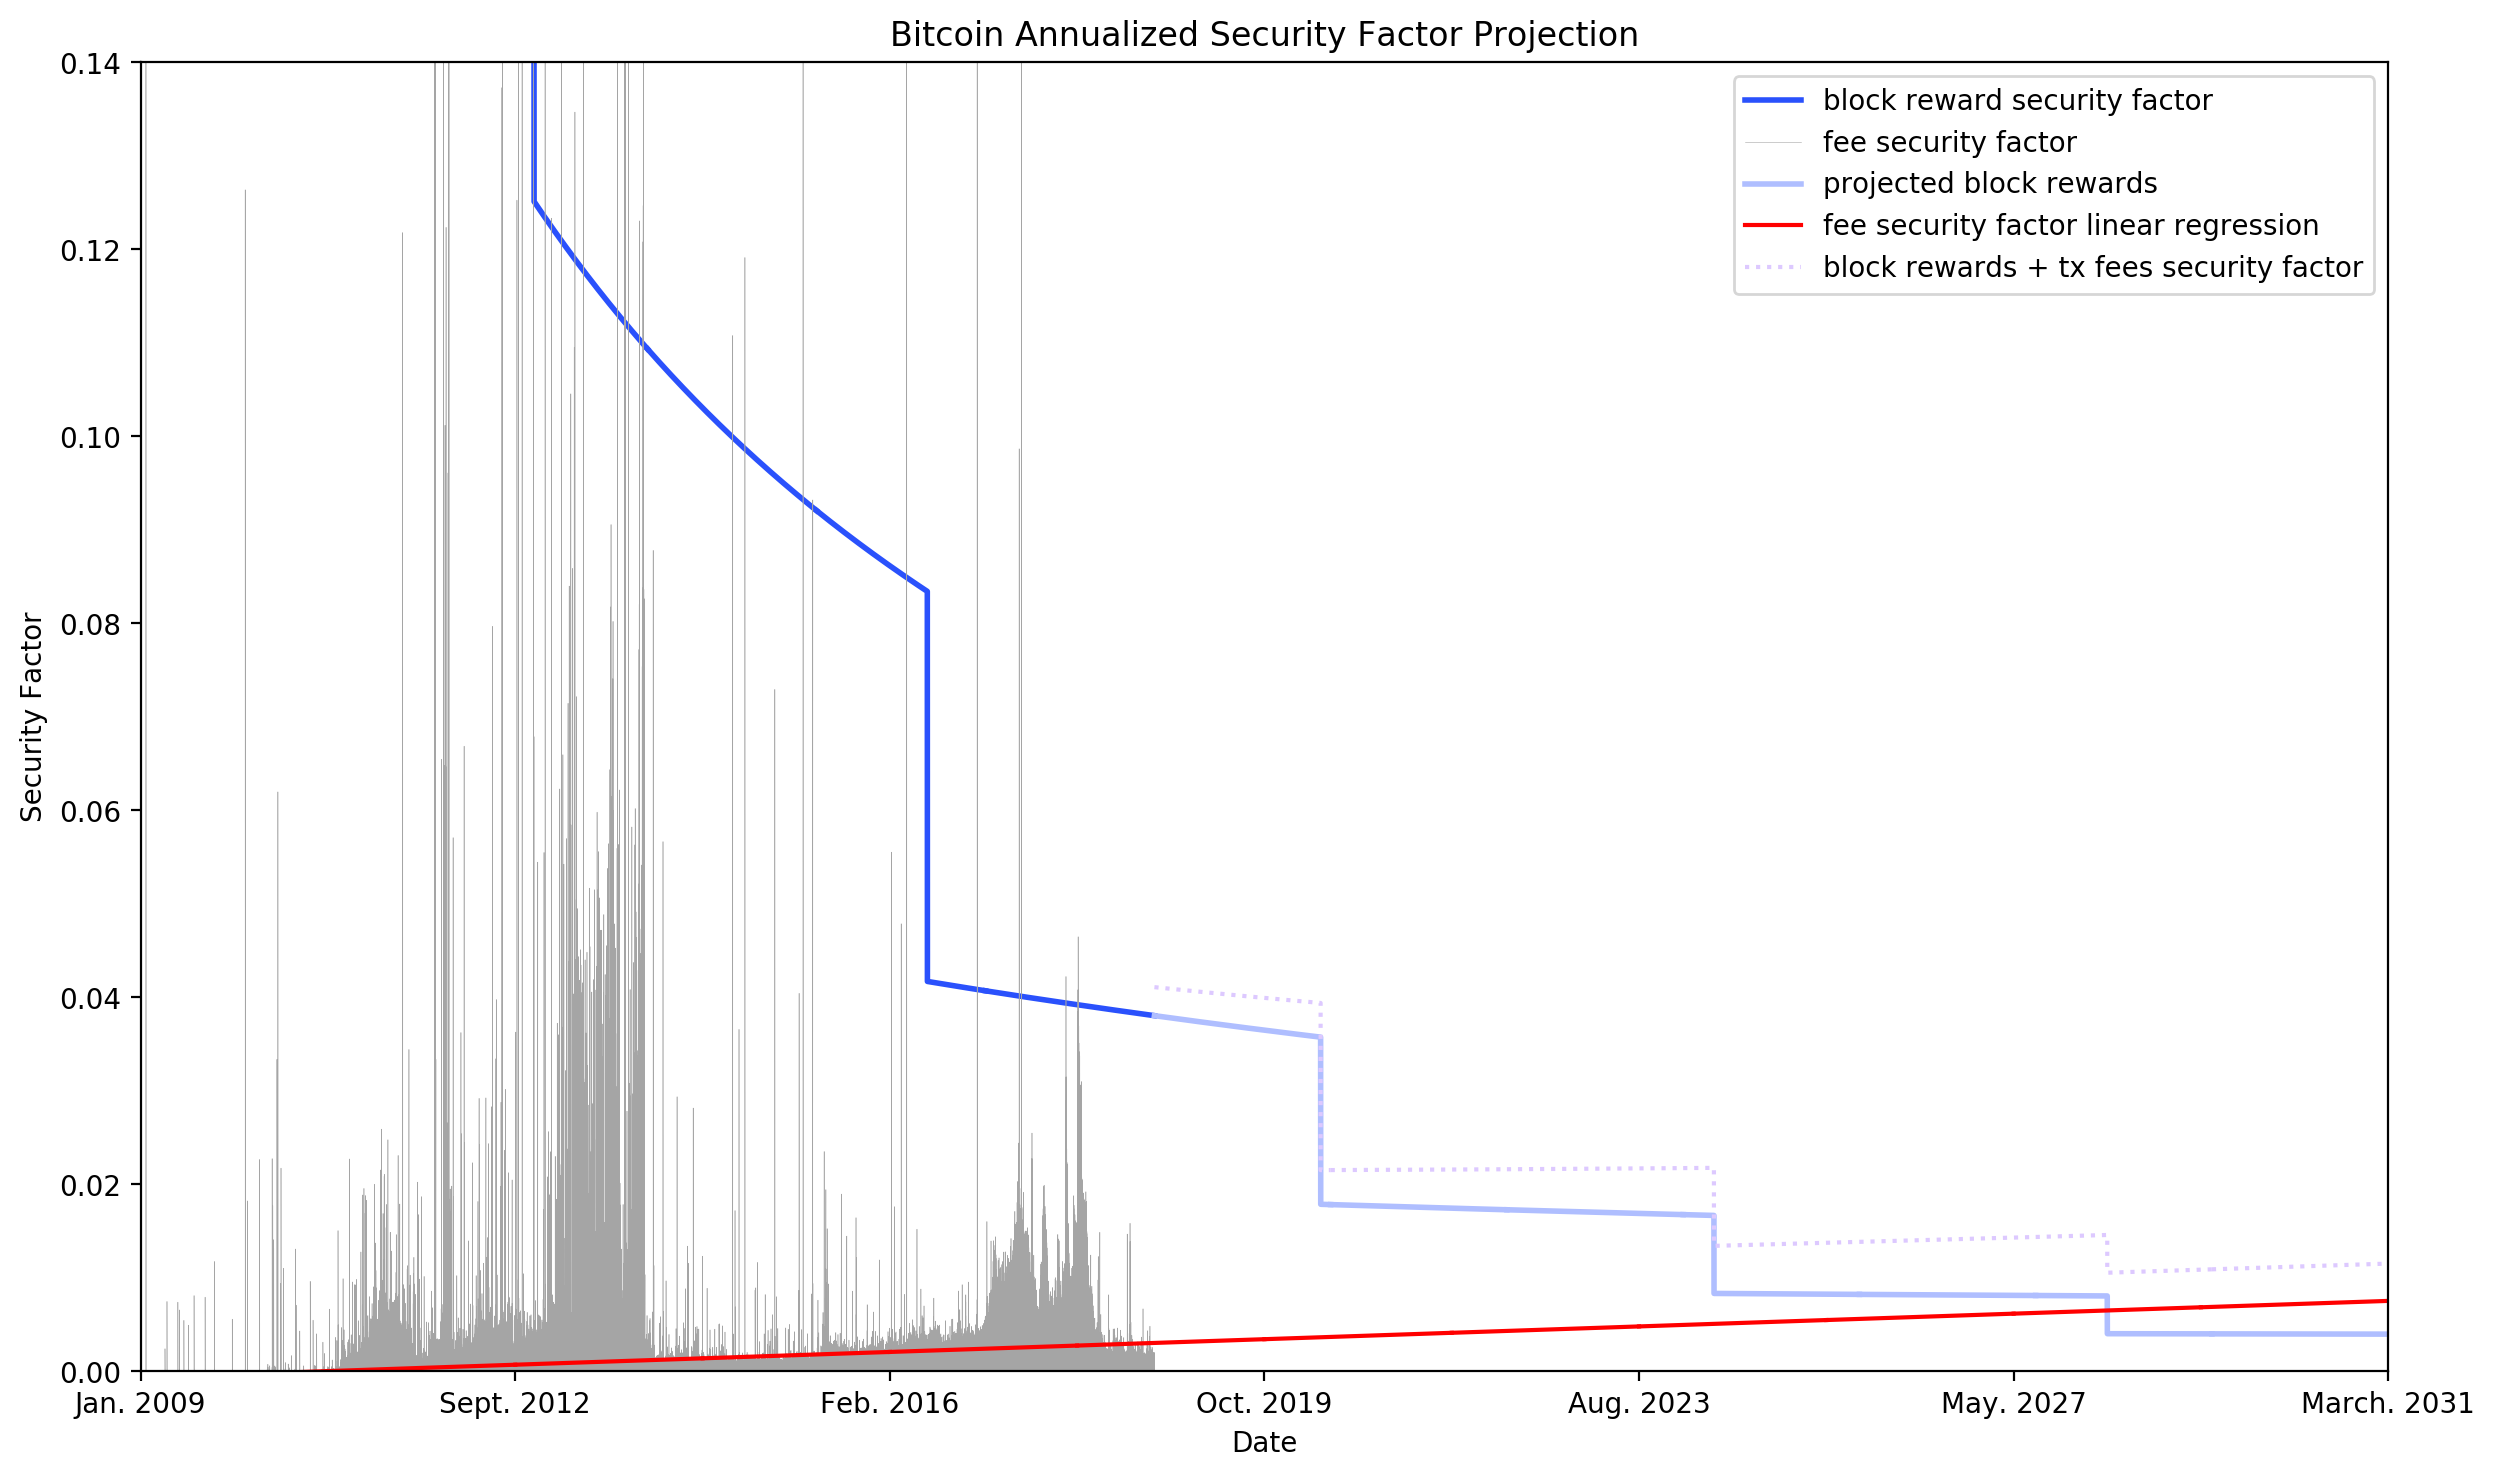
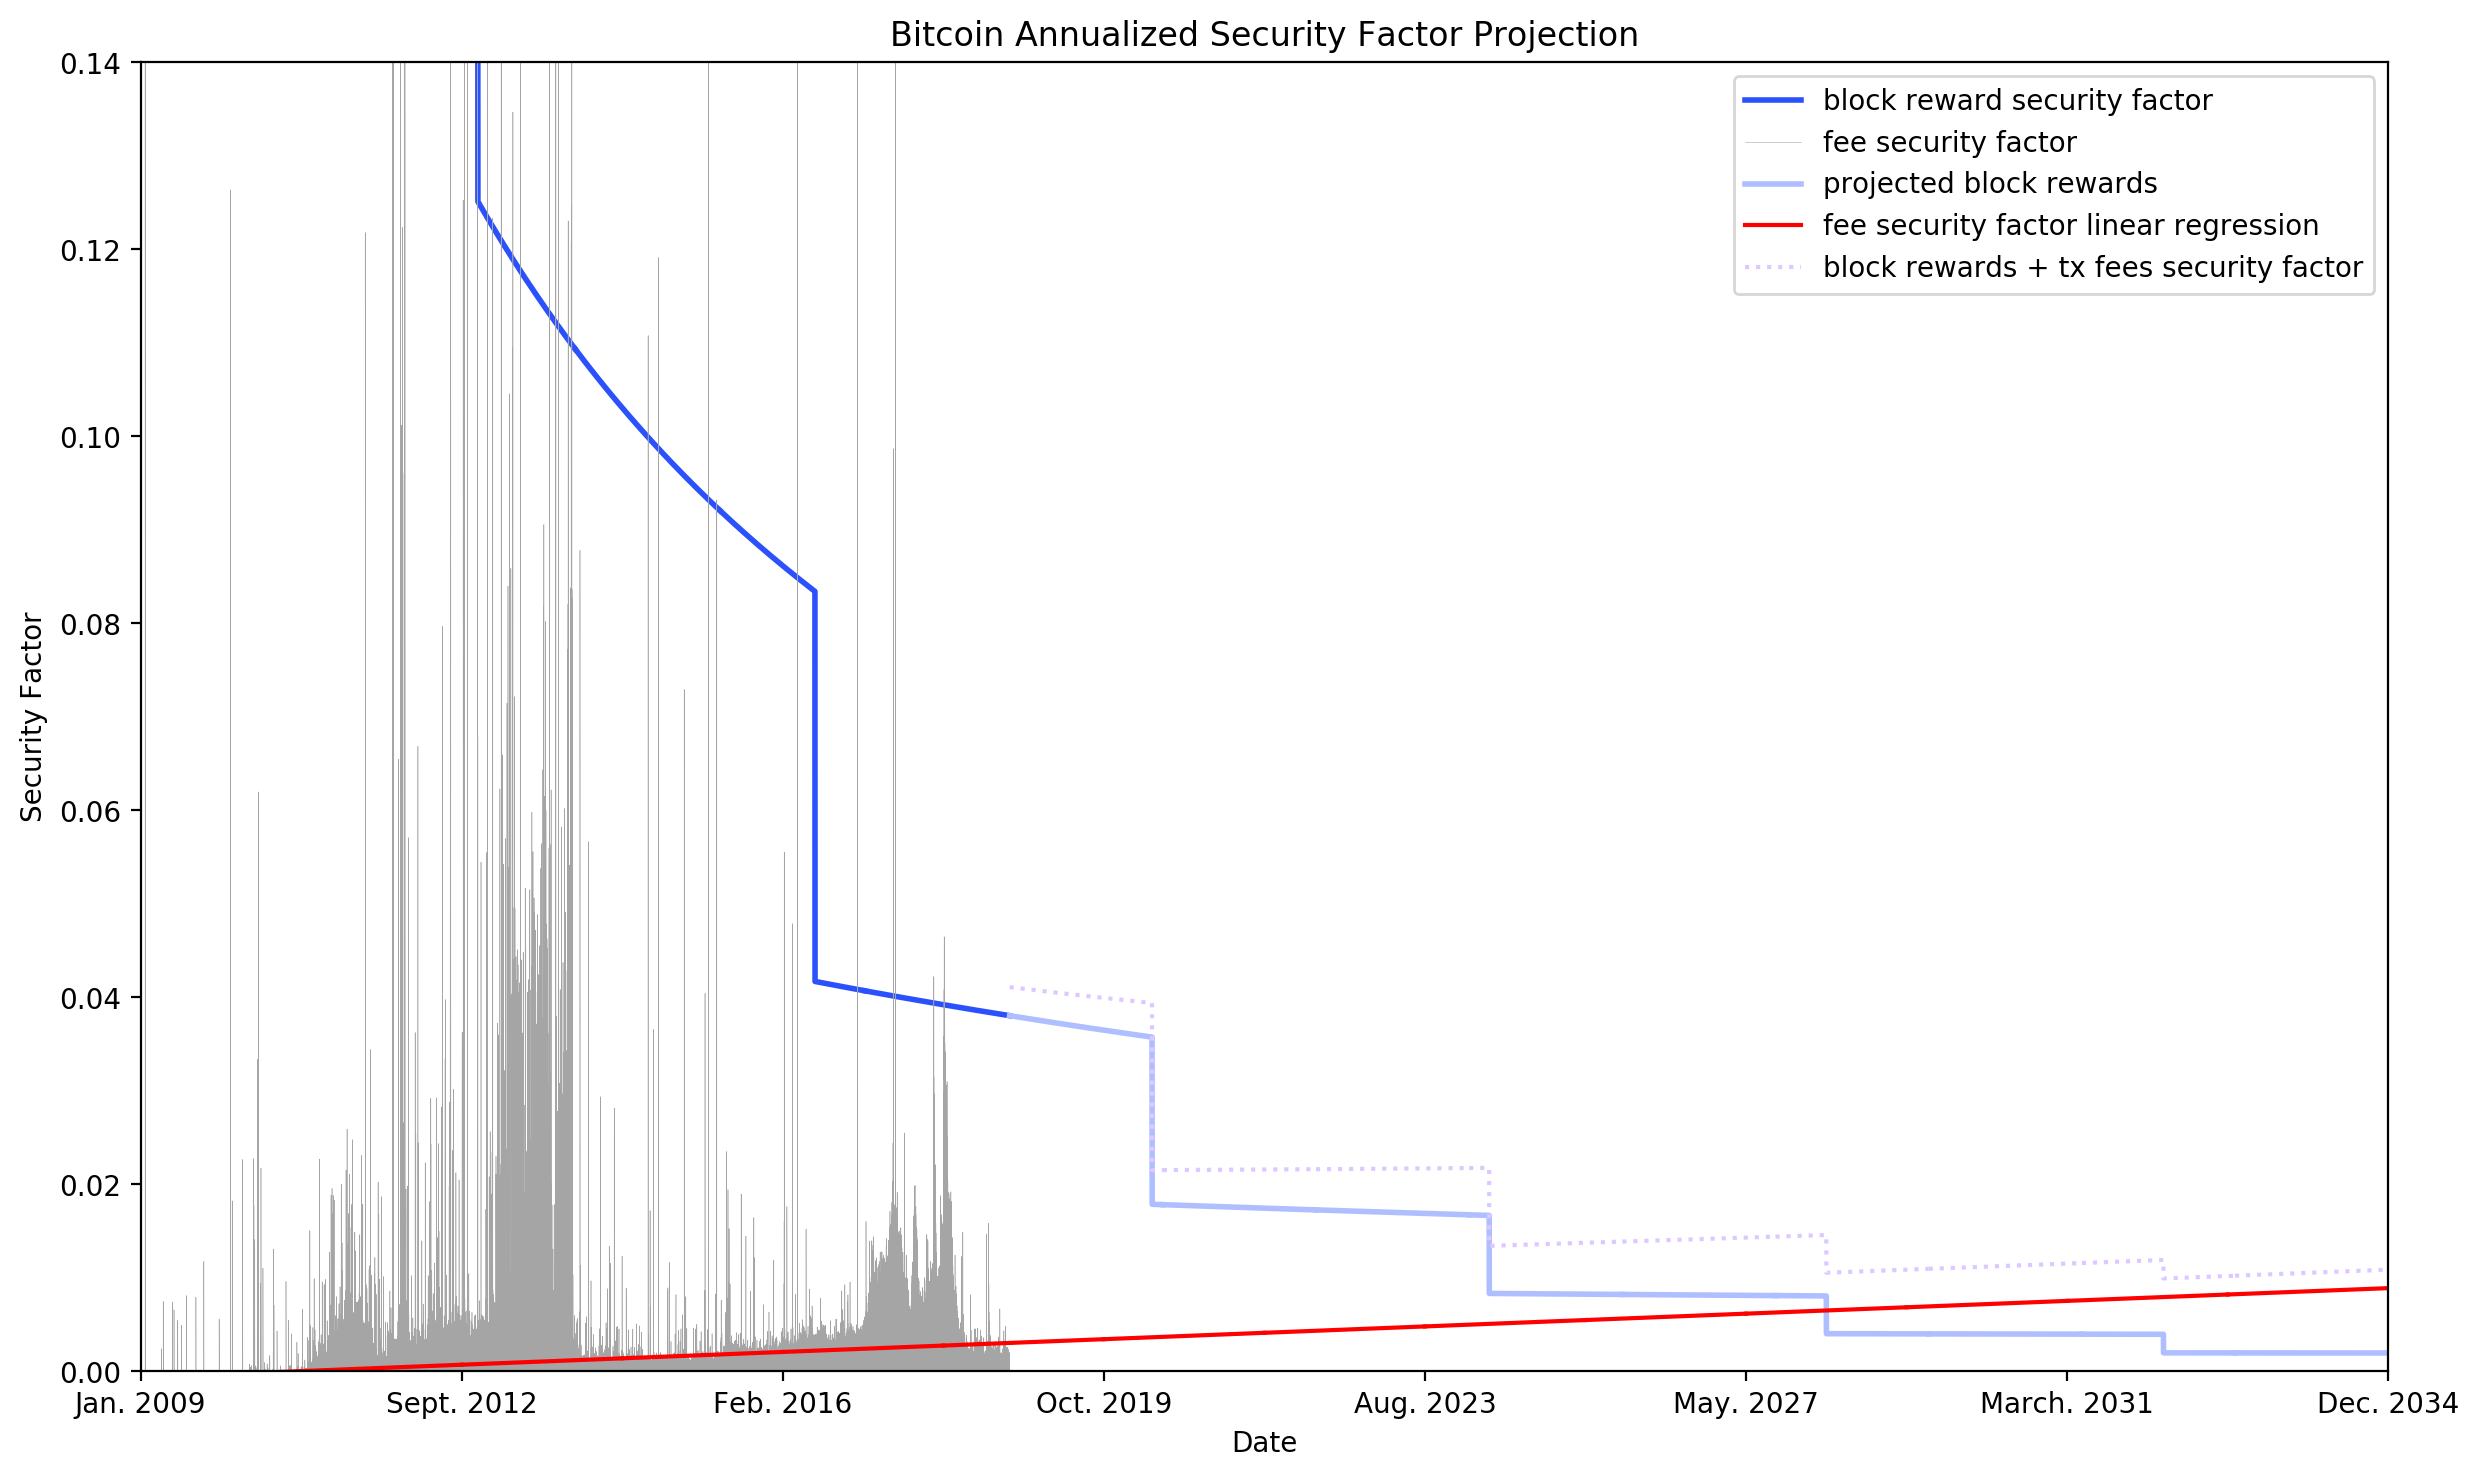
extended time line, new data

diff --git a/security_factor.py b/security_factor.py
@@ -11,7 +11,7 @@ from scipy import stats
 from get_block_data import get_data, update_data
 
 
-PROJECTED_BLOCKS_LIMIT = 1200000
+PROJECTED_BLOCKS_LIMIT = 1400000
 BLOCKS_PER_YEAR = 144 * 365
 
 if not os.path.exists('data'):
@@ -98,6 +98,7 @@ block_dates = {
         800000: 'Aug. 2023',
         1000000: 'May. 2027',
         1200000: 'March. 2031',
+        1400000: 'Dec. 2034',
 }
 ax = plt.gca()
 ax.set_xticklabels(list(block_dates.values()))
@@ -108,8 +109,9 @@ plt.title('Bitcoin Annualized Security Factor Projection')
 plt.legend()
 
 plt.ylim(ymin=0, ymax=.14)
-plt.xlim(xmin=0, xmax=1200000)
+plt.xlim(xmin=0, xmax=PROJECTED_BLOCKS_LIMIT)
 
 fig = plt.gcf()
 fig.set_size_inches(14.5, 8.5)
 fig.savefig('figures/security_factor.png', dpi=200, bbox_inches='tight')
+plt.show()
